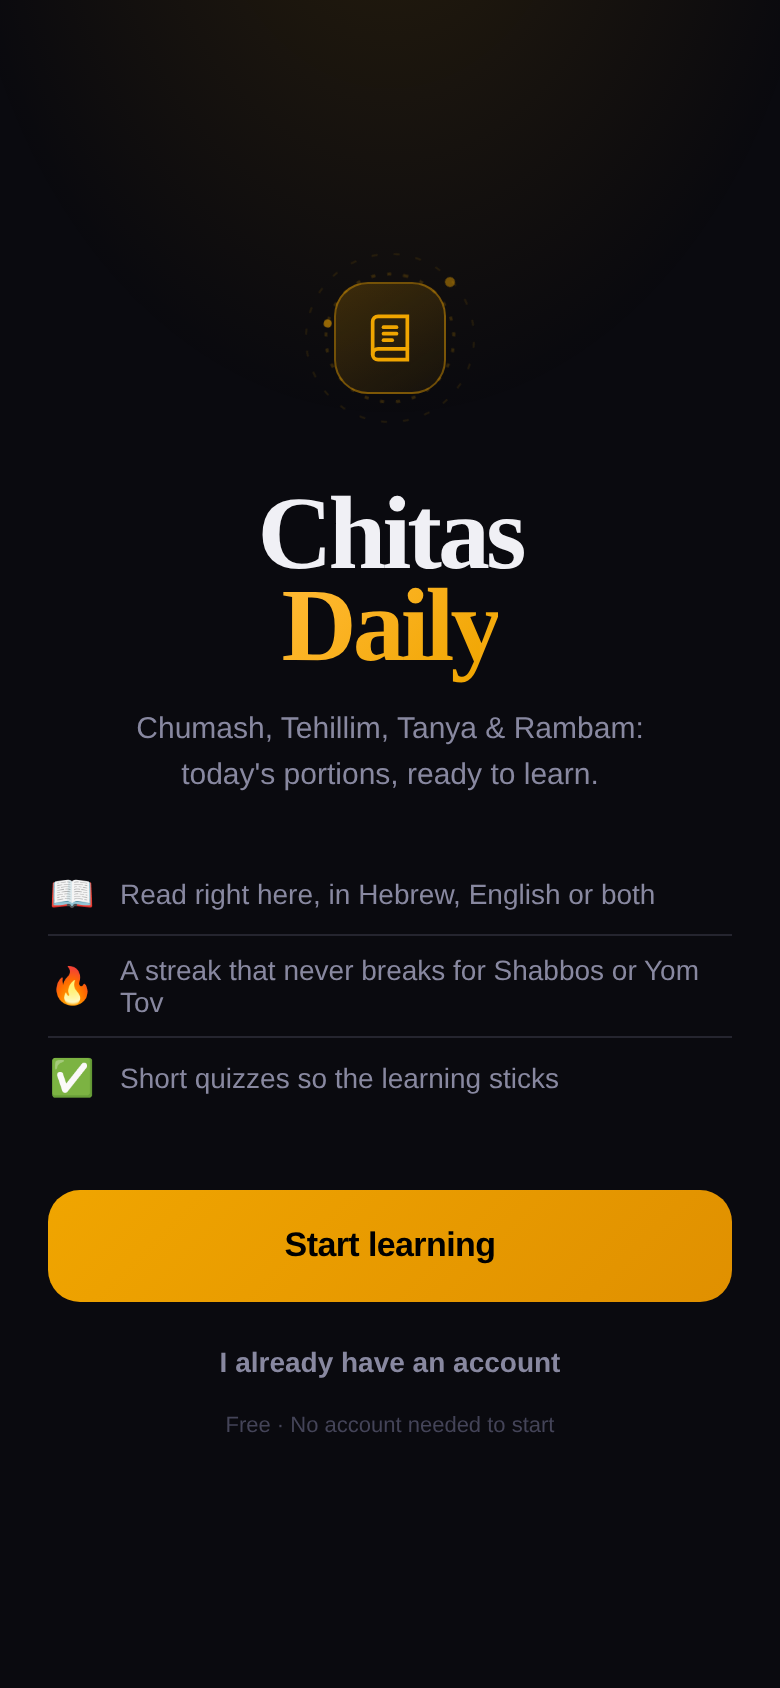
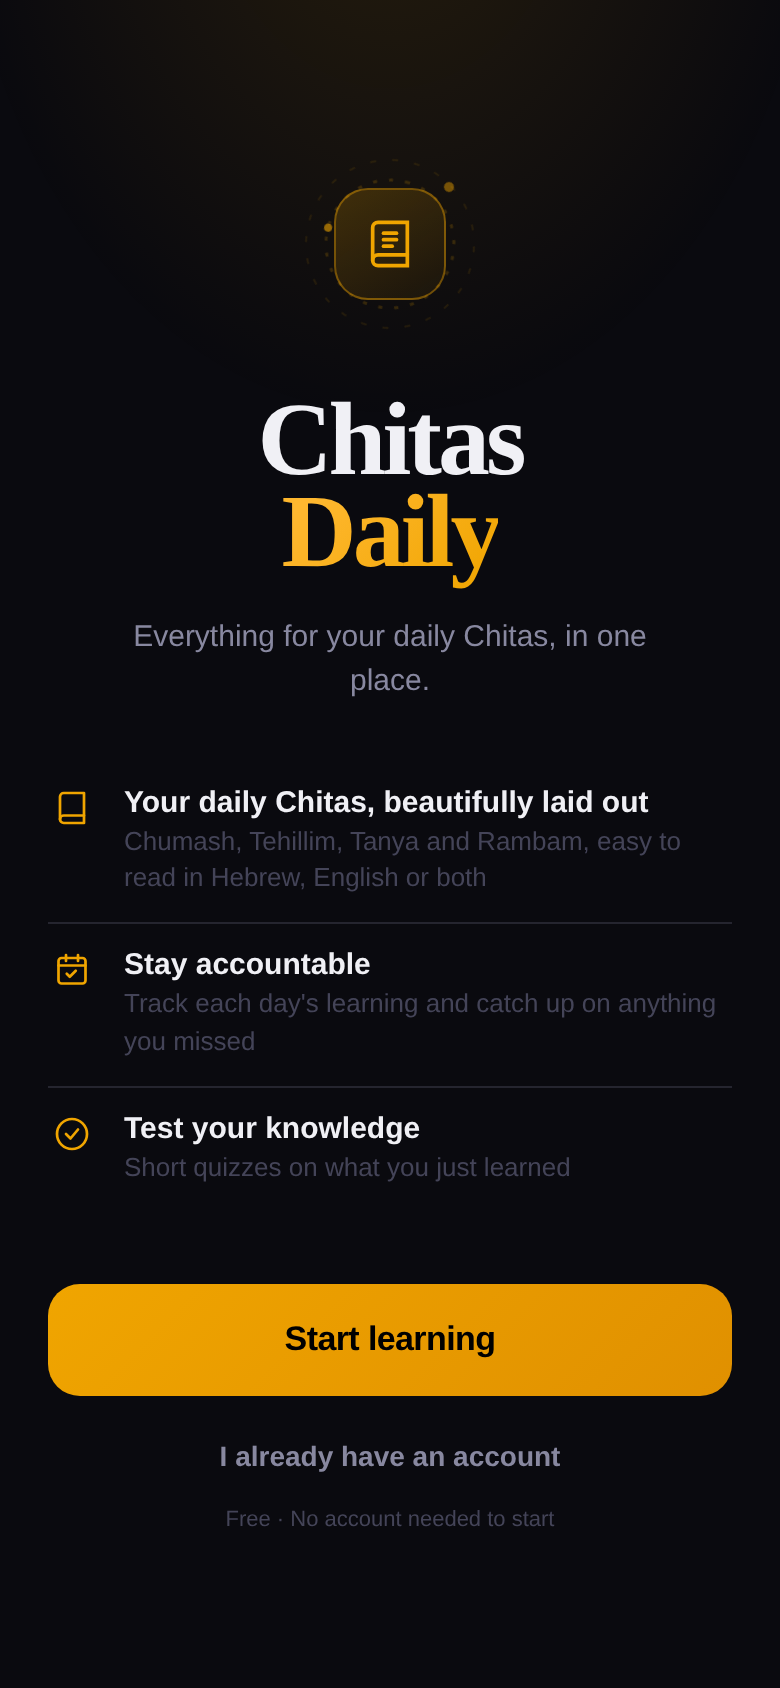
Rambam text from Sefaria, checked against the real data; welcome copy
Checked Sefaria's actual Touger translation (via its public export):
- It never marks the Rambam's words in bold. In many books the
  translator's added words (and sources) are in [brackets]: those are
  now shown lighter without the brackets, the Rambam's words bold, as
  on Chabad.org. Books with no brackets on Sefaria (e.g. Robbery and
  Lost Property) are shown in regular weight instead of all bold.
- Footnotes exist for some books (e.g. Sabbath), in the format the
  reader handles; others (e.g. Robbery and Lost Property) have none on
  Sefaria.
- Sefaria separates sentences with <br>, which was deleted without a
  space ('take it."Even'); it now becomes a space (app and quiz server).
  Transliterated words keep their italics.
- The reader asks for the Touger translation by name, with Sefaria's
  default English as a fallback.
- Tests use real Sefaria samples (tools/fixtures/rambam-touger.json).

Welcome screen: three rows about what the app gives you (a beautiful
daily Chitas, staying accountable, testing your knowledge).

Claude-Session: https://claude.ai/code/session_01LRUPatthgLGU828ZuACoyq

Changed region(s): [[0.0615, 0.0924, 0.9538, 0.9242], [0.7692, 0.3697, 0.8308, 0.4005], [0.0615, 0.4621, 0.1231, 0.4929]]

diff --git a/index.html b/index.html
@@ -441,7 +441,7 @@
 }
 /* Rambam English: the Rambam's words bold, the translator's additions lighter */
 .rb-en b { font-weight: 700; color: var(--t1); }
-.rb-en.rb-marked, .rb-en .rb-add { font-weight: 400; color: var(--t2); }
+.rb-en .rb-add { font-weight: 400; color: var(--t2); }
 .rb-en.rb-plain { font-weight: 400; color: var(--t1); }
 /* Week strip (renderWeekStrip) */
 .wk-day { display:flex; flex-direction:column; align-items:center; gap:5px; padding:4px 0 2px; background:none; border:none; cursor:pointer; font-family:inherit; -webkit-tap-highlight-color:transparent; }
@@ -478,9 +478,11 @@
   border: 1px solid rgba(29,185,84,.45); background: rgba(29,185,84,.12); color: #1DB954; cursor: pointer;
 }
 .rambam-fn.active { background: #1DB954; color: #000; }
-#ob-welcome .ob-points p { display:flex; gap:12px; align-items:center; font-size:14px; color:var(--t2); padding:9px 0; border-bottom:1px solid var(--border); }
-#ob-welcome .ob-points p:last-child { border-bottom:none; }
-#ob-welcome .ob-points span { width:24px; display:flex; justify-content:center; flex-shrink:0; }
+#ob-welcome .ob-point { display:flex; gap:14px; align-items:flex-start; padding:12px 0; border-bottom:1px solid var(--border); }
+#ob-welcome .ob-point:last-child { border-bottom:none; }
+#ob-welcome .ob-point > span { width:24px; display:flex; justify-content:center; flex-shrink:0; padding-top:2px; }
+#ob-welcome .ob-pt-title { font-size:15px; font-weight:800; color:var(--t1); margin-bottom:2px; }
+#ob-welcome .ob-pt-sub { font-size:13px; color:var(--t3); line-height:1.45; }
 #ls-trans-popup {
   position: fixed;
   z-index: 1200;
@@ -835,12 +837,12 @@ window._fsGetDoc = getDoc;
             <span style="background:linear-gradient(135deg,#F0A500 0%,#FFB830 50%,#F0A500 100%);background-size:200%;-webkit-background-clip:text;-webkit-text-fill-color:transparent;background-clip:text;animation:shimmer 3s linear infinite;">Daily</span>
           </h1>
         </div>
-        <p style="font-size:15px;color:var(--t2);line-height:1.5;margin-bottom:28px;max-width:300px;animation:titleReveal .5s .4s ease both;">Chumash, Tehillim, Tanya &amp; Rambam: today's portions, ready to learn.</p>
+        <p style="font-size:15px;color:var(--t2);line-height:1.5;margin-bottom:28px;max-width:300px;animation:titleReveal .5s .4s ease both;">Learn it, track it, remember it.</p>
 
         <div class="ob-points" style="width:100%;text-align:left;margin-bottom:36px;animation:up .5s .55s ease both;">
-          <p><span><svg width="18" height="18" viewBox="0 0 24 24" fill="none" stroke="#F0A500" stroke-width="1.8" stroke-linecap="round" stroke-linejoin="round"><path d="M4 19.5A2.5 2.5 0 016.5 17H20"/><path d="M6.5 2H20v20H6.5A2.5 2.5 0 014 19.5v-15A2.5 2.5 0 016.5 2z"/></svg></span>Read right here, in Hebrew, English or both</p>
-          <p><span><svg width="18" height="18" viewBox="0 0 24 24" fill="none" stroke="#F0A500" stroke-width="1.8" stroke-linecap="round" stroke-linejoin="round"><rect x="3" y="4" width="18" height="17" rx="2"/><path d="M3 9h18M8 2v4M16 2v4"/></svg></span>See your week at a glance and catch up on any day you missed</p>
-          <p><span><svg width="18" height="18" viewBox="0 0 24 24" fill="none" stroke="#F0A500" stroke-width="1.8" stroke-linecap="round" stroke-linejoin="round"><circle cx="12" cy="12" r="10"/><path d="M8 12l3 3 5-6"/></svg></span>Quick quizzes on what you just learned</p>
+          <div class="ob-point"><span><svg width="18" height="18" viewBox="0 0 24 24" fill="none" stroke="#F0A500" stroke-width="1.8" stroke-linecap="round" stroke-linejoin="round"><path d="M4 19.5A2.5 2.5 0 016.5 17H20"/><path d="M6.5 2H20v20H6.5A2.5 2.5 0 014 19.5v-15A2.5 2.5 0 016.5 2z"/></svg></span><div><p class="ob-pt-title">Your daily Chitas, beautifully laid out</p><p class="ob-pt-sub">Chumash, Tehillim, Tanya and Rambam, easy to read in Hebrew, English or both</p></div></div>
+          <div class="ob-point"><span><svg width="18" height="18" viewBox="0 0 24 24" fill="none" stroke="#F0A500" stroke-width="1.8" stroke-linecap="round" stroke-linejoin="round"><rect x="3" y="4" width="18" height="17" rx="2"/><path d="M3 9h18M8 2v4M16 2v4"/><path d="M8.5 14.5l2 2 4-4"/></svg></span><div><p class="ob-pt-title">Stay accountable</p><p class="ob-pt-sub">Track each day's learning and catch up on anything you missed</p></div></div>
+          <div class="ob-point"><span><svg width="18" height="18" viewBox="0 0 24 24" fill="none" stroke="#F0A500" stroke-width="1.8" stroke-linecap="round" stroke-linejoin="round"><circle cx="12" cy="12" r="10"/><path d="M8 12l3 3 5-6"/></svg></span><div><p class="ob-pt-title">Test your knowledge</p><p class="ob-pt-sub">Short quizzes on what you just learned</p></div></div>
         </div>
 
         <div style="width:100%;animation:up .5s .7s ease both;">
@@ -3587,7 +3589,7 @@ function _cleanHtml(s, notes){
   function keepNote(inner){
     if(!notes)return'';
     // DOMParser turns &amp; etc. into real characters (it never runs scripts or loads images)
-    const text=new DOMParser().parseFromString(inner,'text/html').body.textContent.replace(/\s+/g,' ').trim();
+    const text=new DOMParser().parseFromString(inner.replace(/<br\s*\/?>/gi,' '),'text/html').body.textContent.replace(/\s+/g,' ').trim();
     if(!text)return'';
     notes.push(text);
     return FN_OPEN+(notes.length-1)+FN_CLOSE;
@@ -3622,7 +3624,8 @@ function _cleanHtml(s, notes){
     return out;
   }
   s=removeFn(s);
-  s=s.replace(/<(?!\/?b\b)[^>]+>/g,'');
+  s=s.replace(/<br\s*\/?>/gi,' ');                 // line breaks between sentences → a space
+  s=s.replace(/<(?!\/?b>|\/?b\s|\/?i>)[^>]+>/g,''); // keep <b> and plain <i> (e.g. transliterated words)
   return s.replace(/\s+/g,' ').trim();
 }
 function _flatHtml(x){
@@ -4035,12 +4038,21 @@ function _rambamChapterTitle(ref) {
   return ref;
 }
 
+const RAMBAM_EN_VERSION = 'Mishneh Torah, trans. by Eliyahu Touger. Jerusalem, Moznaim Pub. c1986-c2007';
+
 async function _fetchRambamChapter(ref) {
   const enc = encodeURIComponent(ref);
-  // v3 API for English (Touger translation)
+  // The translator's footnotes are kept (one list per chapter) and shown as
+  // tappable numbers in the text
+  const notes = [];
+
+  // v3 API for English — ask for the Touger translation by name (it carries the
+  // translator's footnotes and, in many books, [brackets] around his added words);
+  // fall back to Sefaria's default English if that version isn't there
+  const v3 = version => fetch('https://www.sefaria.org/api/v3/texts/' + enc + '?version=' + encodeURIComponent(version) + '&fill_in_missing_segments=1')
+    .then(r => r.json()).then(d => (d?.versions || []).some(v => flatV3(v.text).some(Boolean)) ? d : null).catch(() => null);
   const [enRes, heRes] = await Promise.all([
-    fetch('https://www.sefaria.org/api/v3/texts/' + enc + '?version=english&fill_in_missing_segments=1')
-      .then(r => r.json()).catch(() => null),
+    v3('english|' + RAMBAM_EN_VERSION).then(d => d || v3('english')),
     fetch('https://www.sefaria.org/api/texts/' + enc + '?context=0&commentary=0&lang=he')
       .then(r => r.json()).catch(() => null),
   ]);
@@ -4050,9 +4062,6 @@ async function _fetchRambamChapter(ref) {
   // or a nested array (range fetch — we take index 0 = first chapter).
   // Since we now always fetch one chapter at a time via _expandRambamRefs,
   // text should always be flat. But guard against nesting just in case.
-  // The translator's footnotes are kept (one list per chapter) and shown as
-  // tappable numbers in the text
-  const notes = [];
   function flatV3(x) {
     if (!x) return [];
     // Nested: first element is itself an array → this is a multi-chapter response
@@ -4071,6 +4080,7 @@ async function _fetchRambamChapter(ref) {
   }
 
   const engVersion = enRes?.versions?.find(v => v.language === 'en') || enRes?.versions?.[0];
+  notes.length = 0; // the version check above may have collected some
   const enSegs = flatV3(engVersion?.text || []);
 
   // Hebrew from standard API — same nesting guard as flatV3
@@ -4114,20 +4124,16 @@ function _renderRambamContent() {
                    'יז','יח','יט','כ','כא'];
 
   // Touger translation: the Rambam's own words vs the translator's additions.
-  //  - If Sefaria marks the Rambam's words with <b>, those are bold and
-  //    everything else (the translator's words) is lighter.
-  //  - Otherwise, if the translator's words are in [brackets], those are lighter.
-  //  - Otherwise the text is shown plainly.
+  // Sefaria's copy marks the translator's added words (and sources) with
+  // [square brackets] in many books, e.g. "liable [to death]". Those are shown
+  // lighter, without the brackets, and the Rambam's words bold — like Chabad.org.
+  // Some books (e.g. Robbery and Lost Property) have no brackets on Sefaria, so
+  // there's nothing to tell the two apart: that text is shown in regular weight.
   function styleBrackets(text) {
     if (!text) return '';
-    if (/<b\b/i.test(text)) {
-      return '<span class="rb-en rb-marked">' + text.replace(/\[([^\]]+)\]/g, '<span class="rb-add">[$1]</span>') + '</span>';
-    }
-    if (/\[[^\]]+\]/.test(text)) {
-      return '<span class="rb-en">' + text.split(/\[([^\]]+)\]/).map((part, i) =>
-        !part ? '' : i % 2 === 0 ? '<b>' + part + '</b>' : '<span class="rb-add">' + part + '</span>').join('') + '</span>';
-    }
-    return '<span class="rb-en rb-plain">' + text + '</span>';
+    if (!/\[[^\]]+\]/.test(text)) return '<span class="rb-en rb-plain">' + text + '</span>';
+    return '<span class="rb-en">' + text.split(/\[([^\]]+)\]/).map((part, i) =>
+      !part ? '' : i % 2 === 0 ? '<b>' + part + '</b>' : '<span class="rb-add">' + part + '</span>').join('') + '</span>';
   }
 
   // Lang toggle

diff --git a/api/_lib/sefaria.js b/api/_lib/sefaria.js
@@ -23,7 +23,7 @@ export function cleanSefariaHtml(s) {
     if (mk) { i += mk[0].length; continue; }
     out += s[i++];
   }
-  return out.replace(/<[^>]+>/g, '')
+  return out.replace(/<br\s*\/?>/gi, ' ').replace(/<[^>]+>/g, '')
     .replace(/&nbsp;/g, ' ').replace(/&amp;/g, '&').replace(/&quot;/g, '"').replace(/&#39;|&apos;/g, "'").replace(/&lt;/g, '<').replace(/&gt;/g, '>')
     .replace(/\s+/g, ' ').trim();
 }
